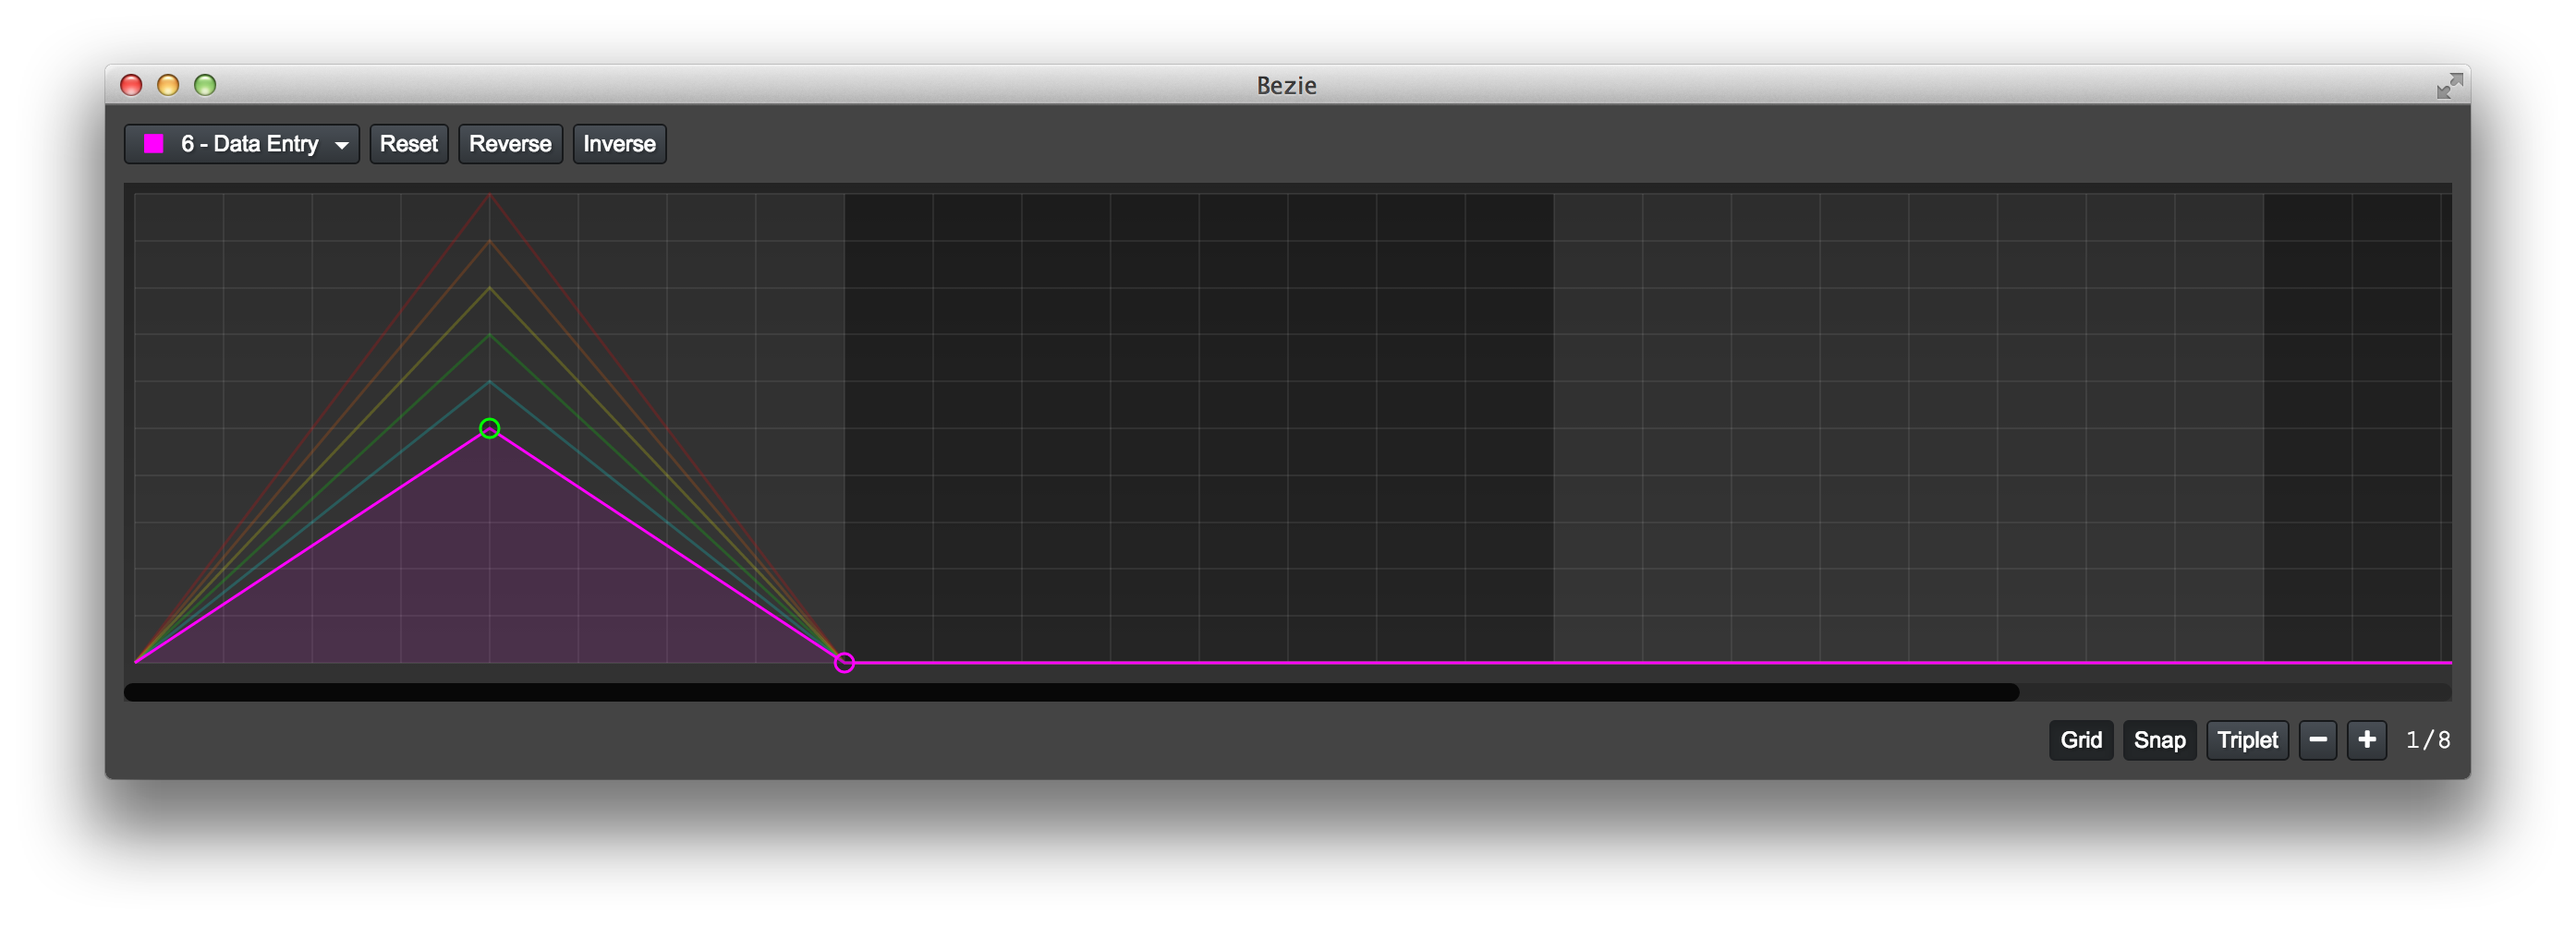
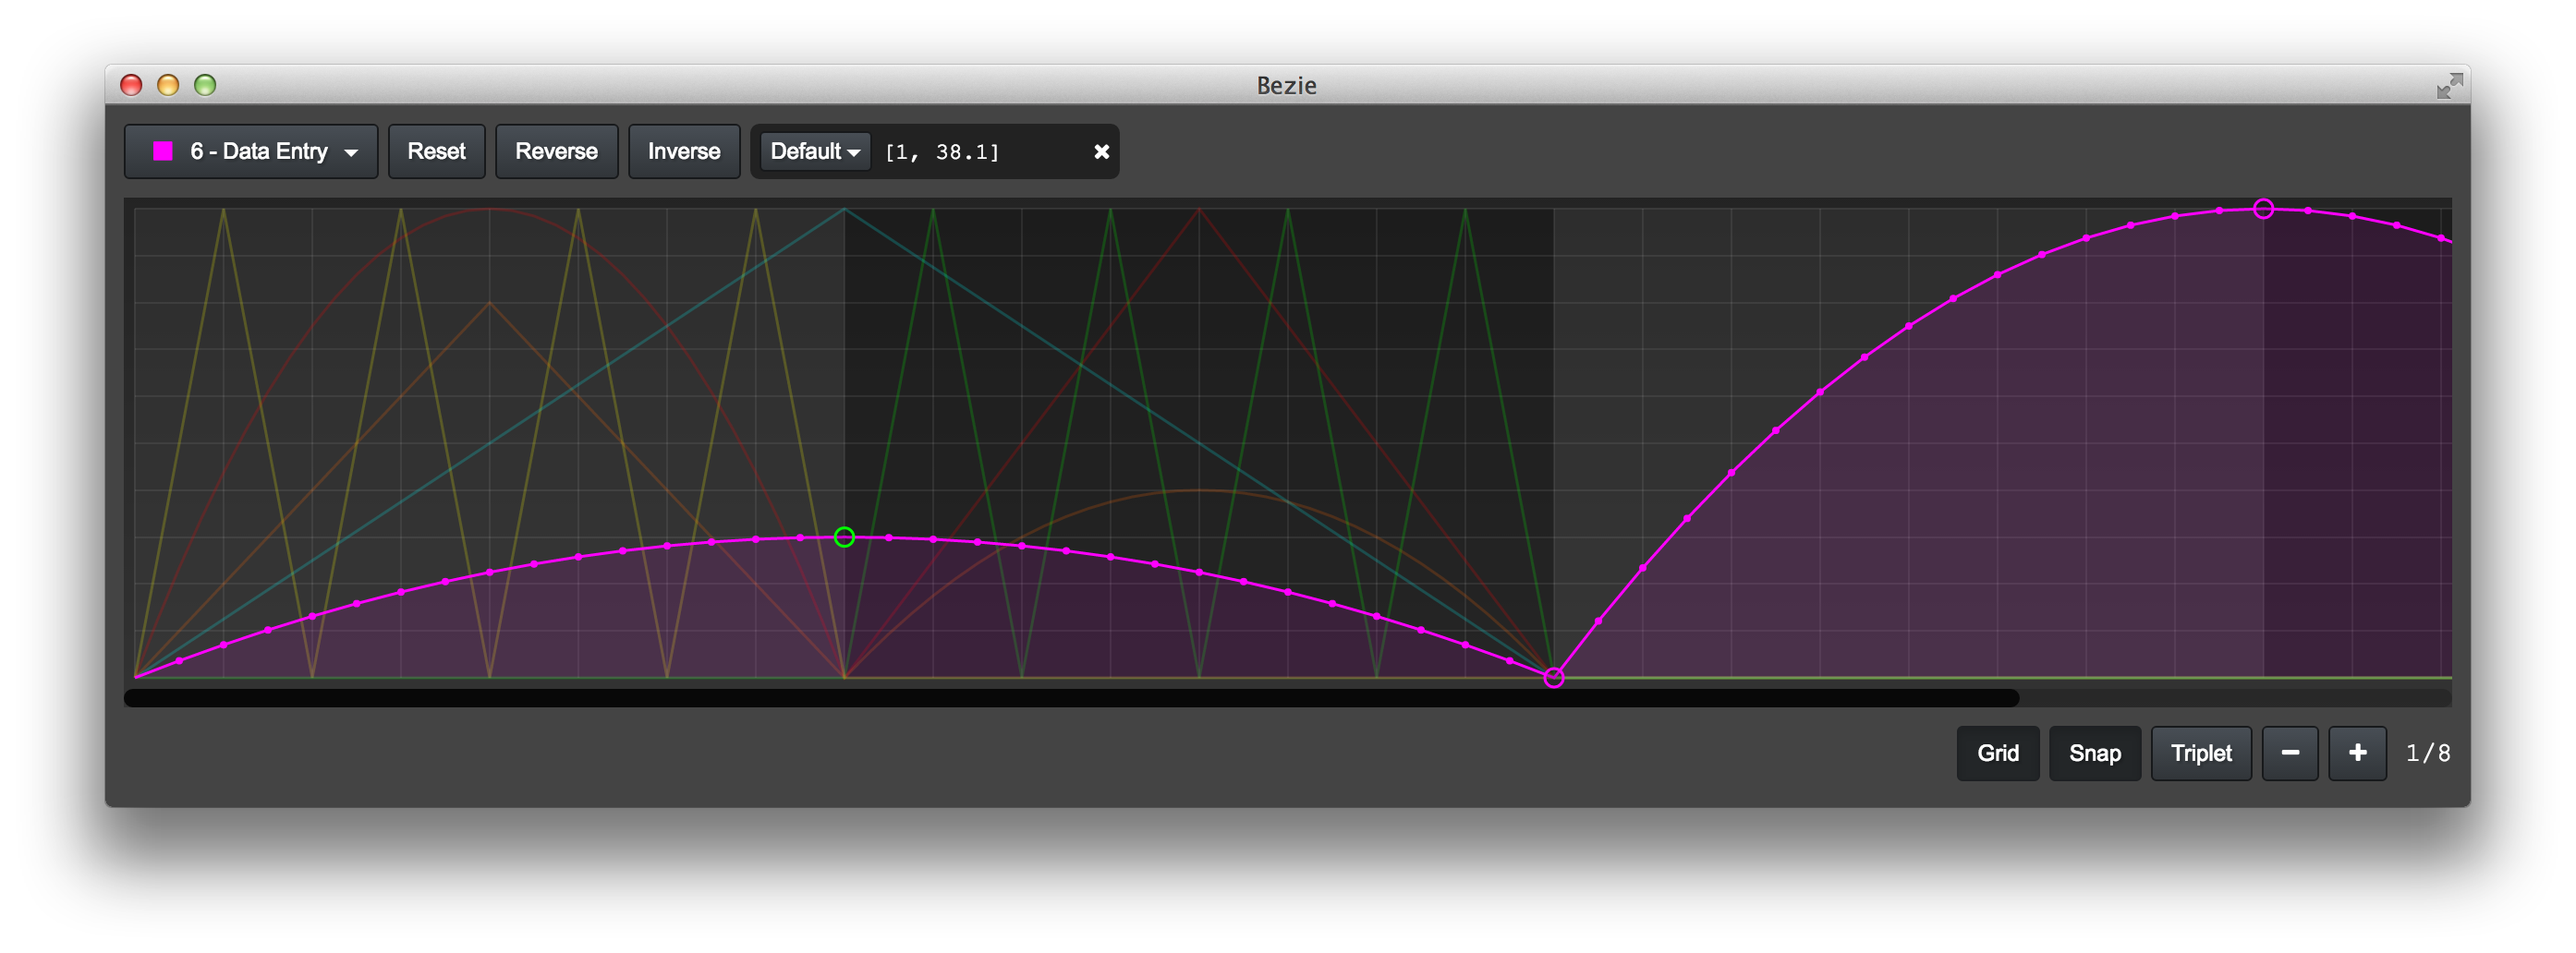
bump screenshot

diff --git a/app/reducers/bezie.js b/app/reducers/bezie.js
@@ -14,7 +14,7 @@ import * as utils from '../utils'
 import * as bezier from '../utils/bezier'
 
 const initialState = Immutable({
-    snap: false,
+    snap: true,
     bars: 4,
     zoom: { x: 1, y: 2 },
     interval: { x: 8, y: 10 },
